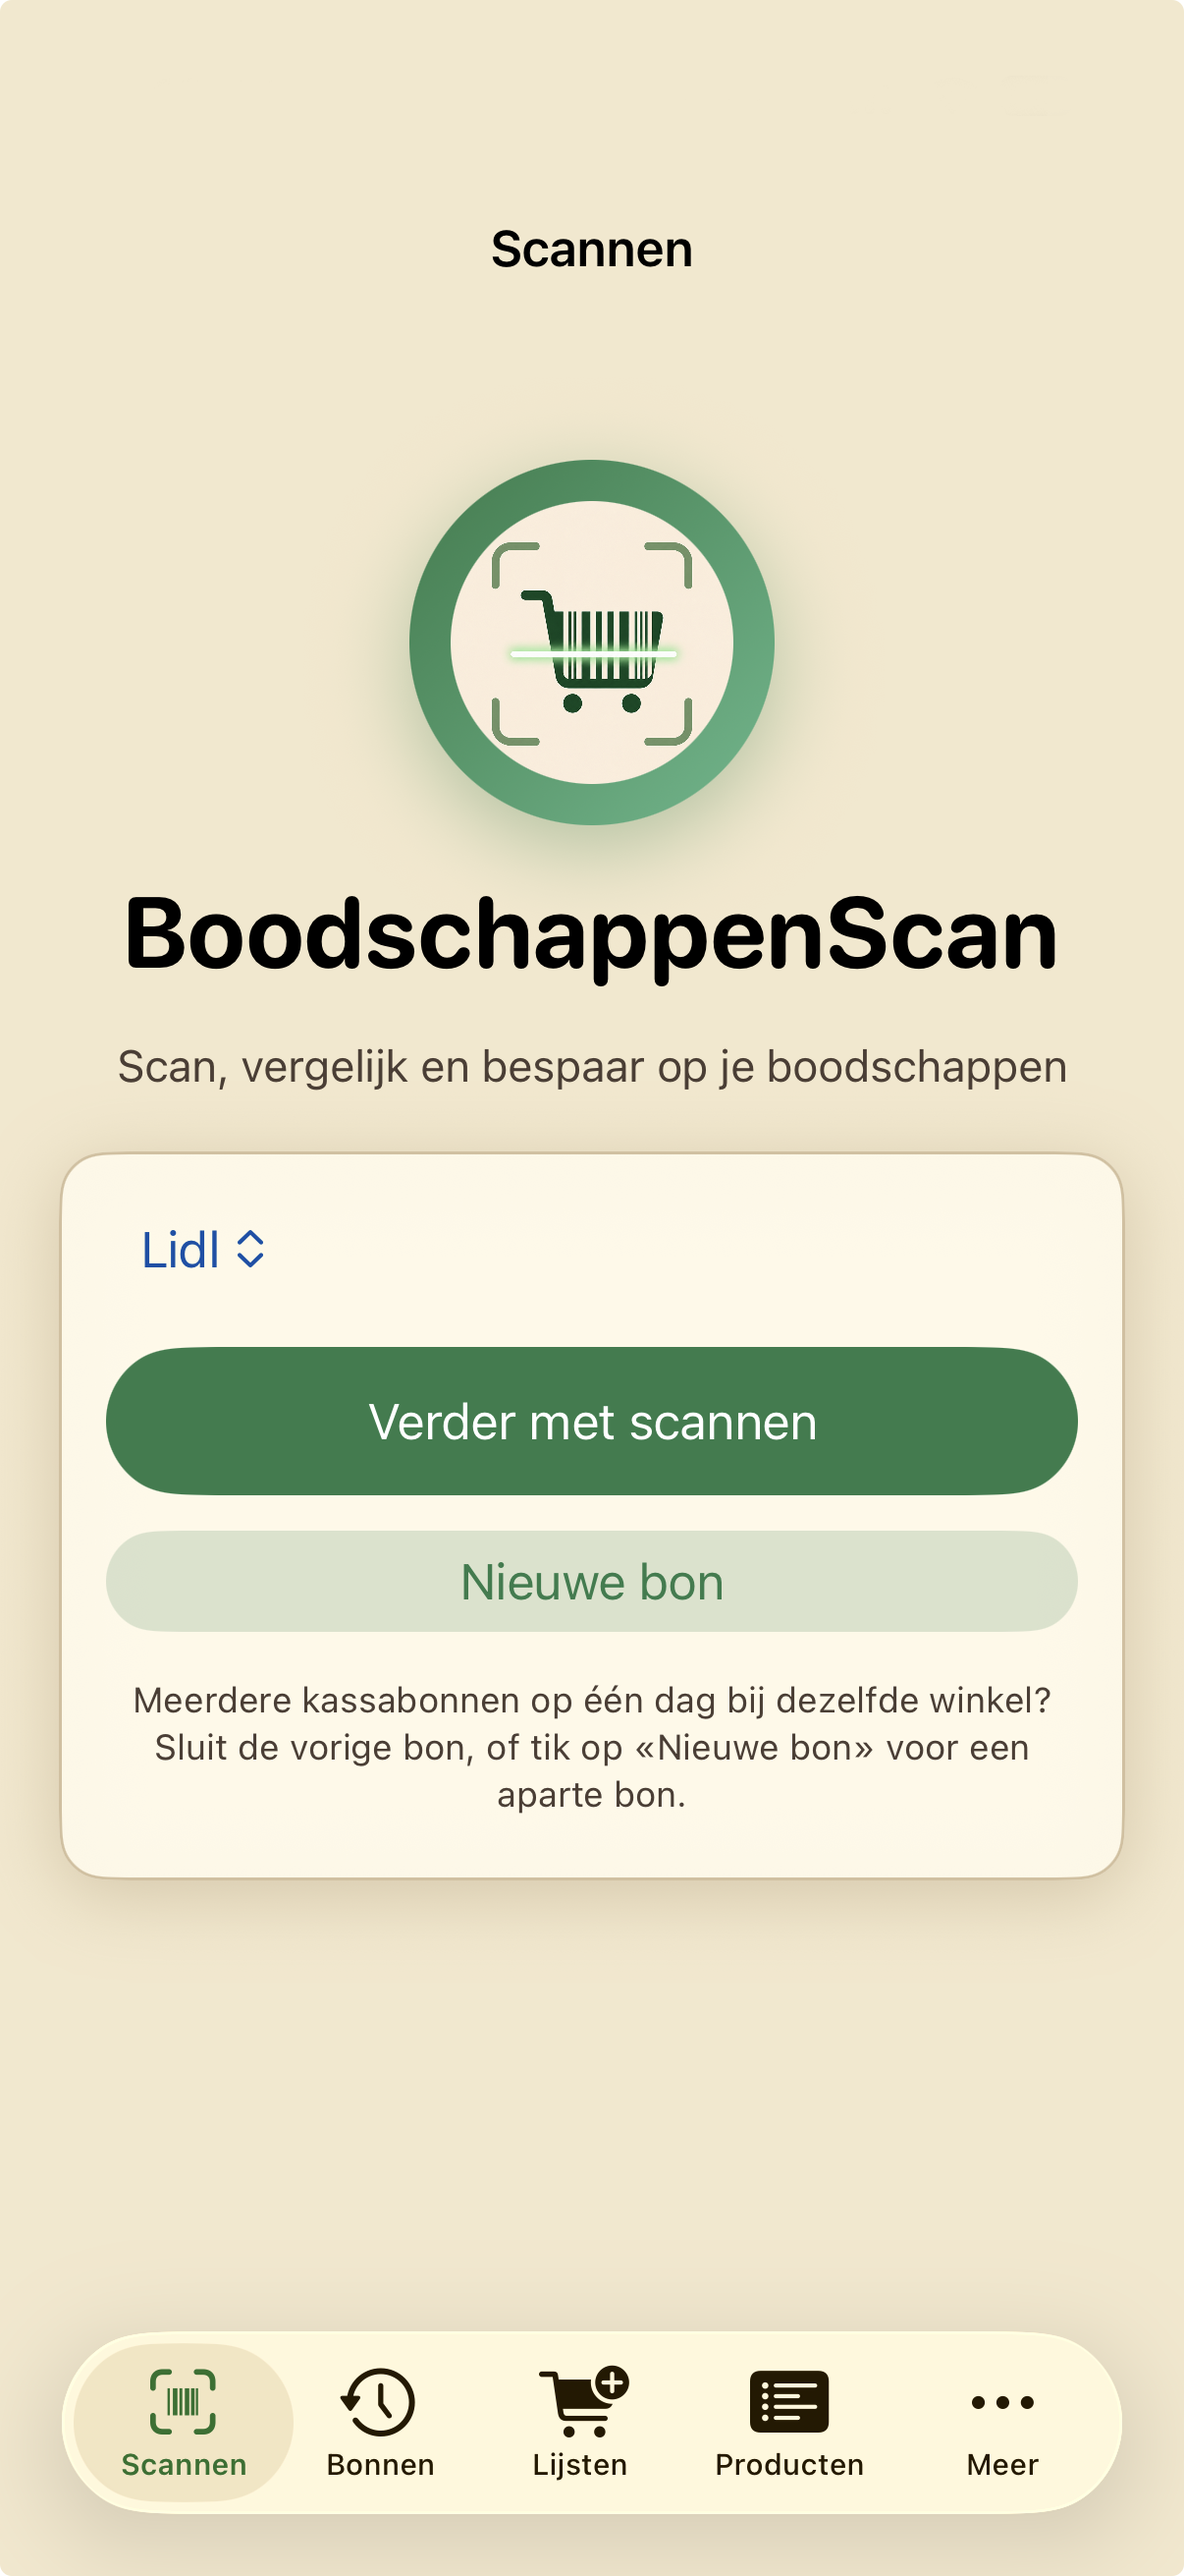
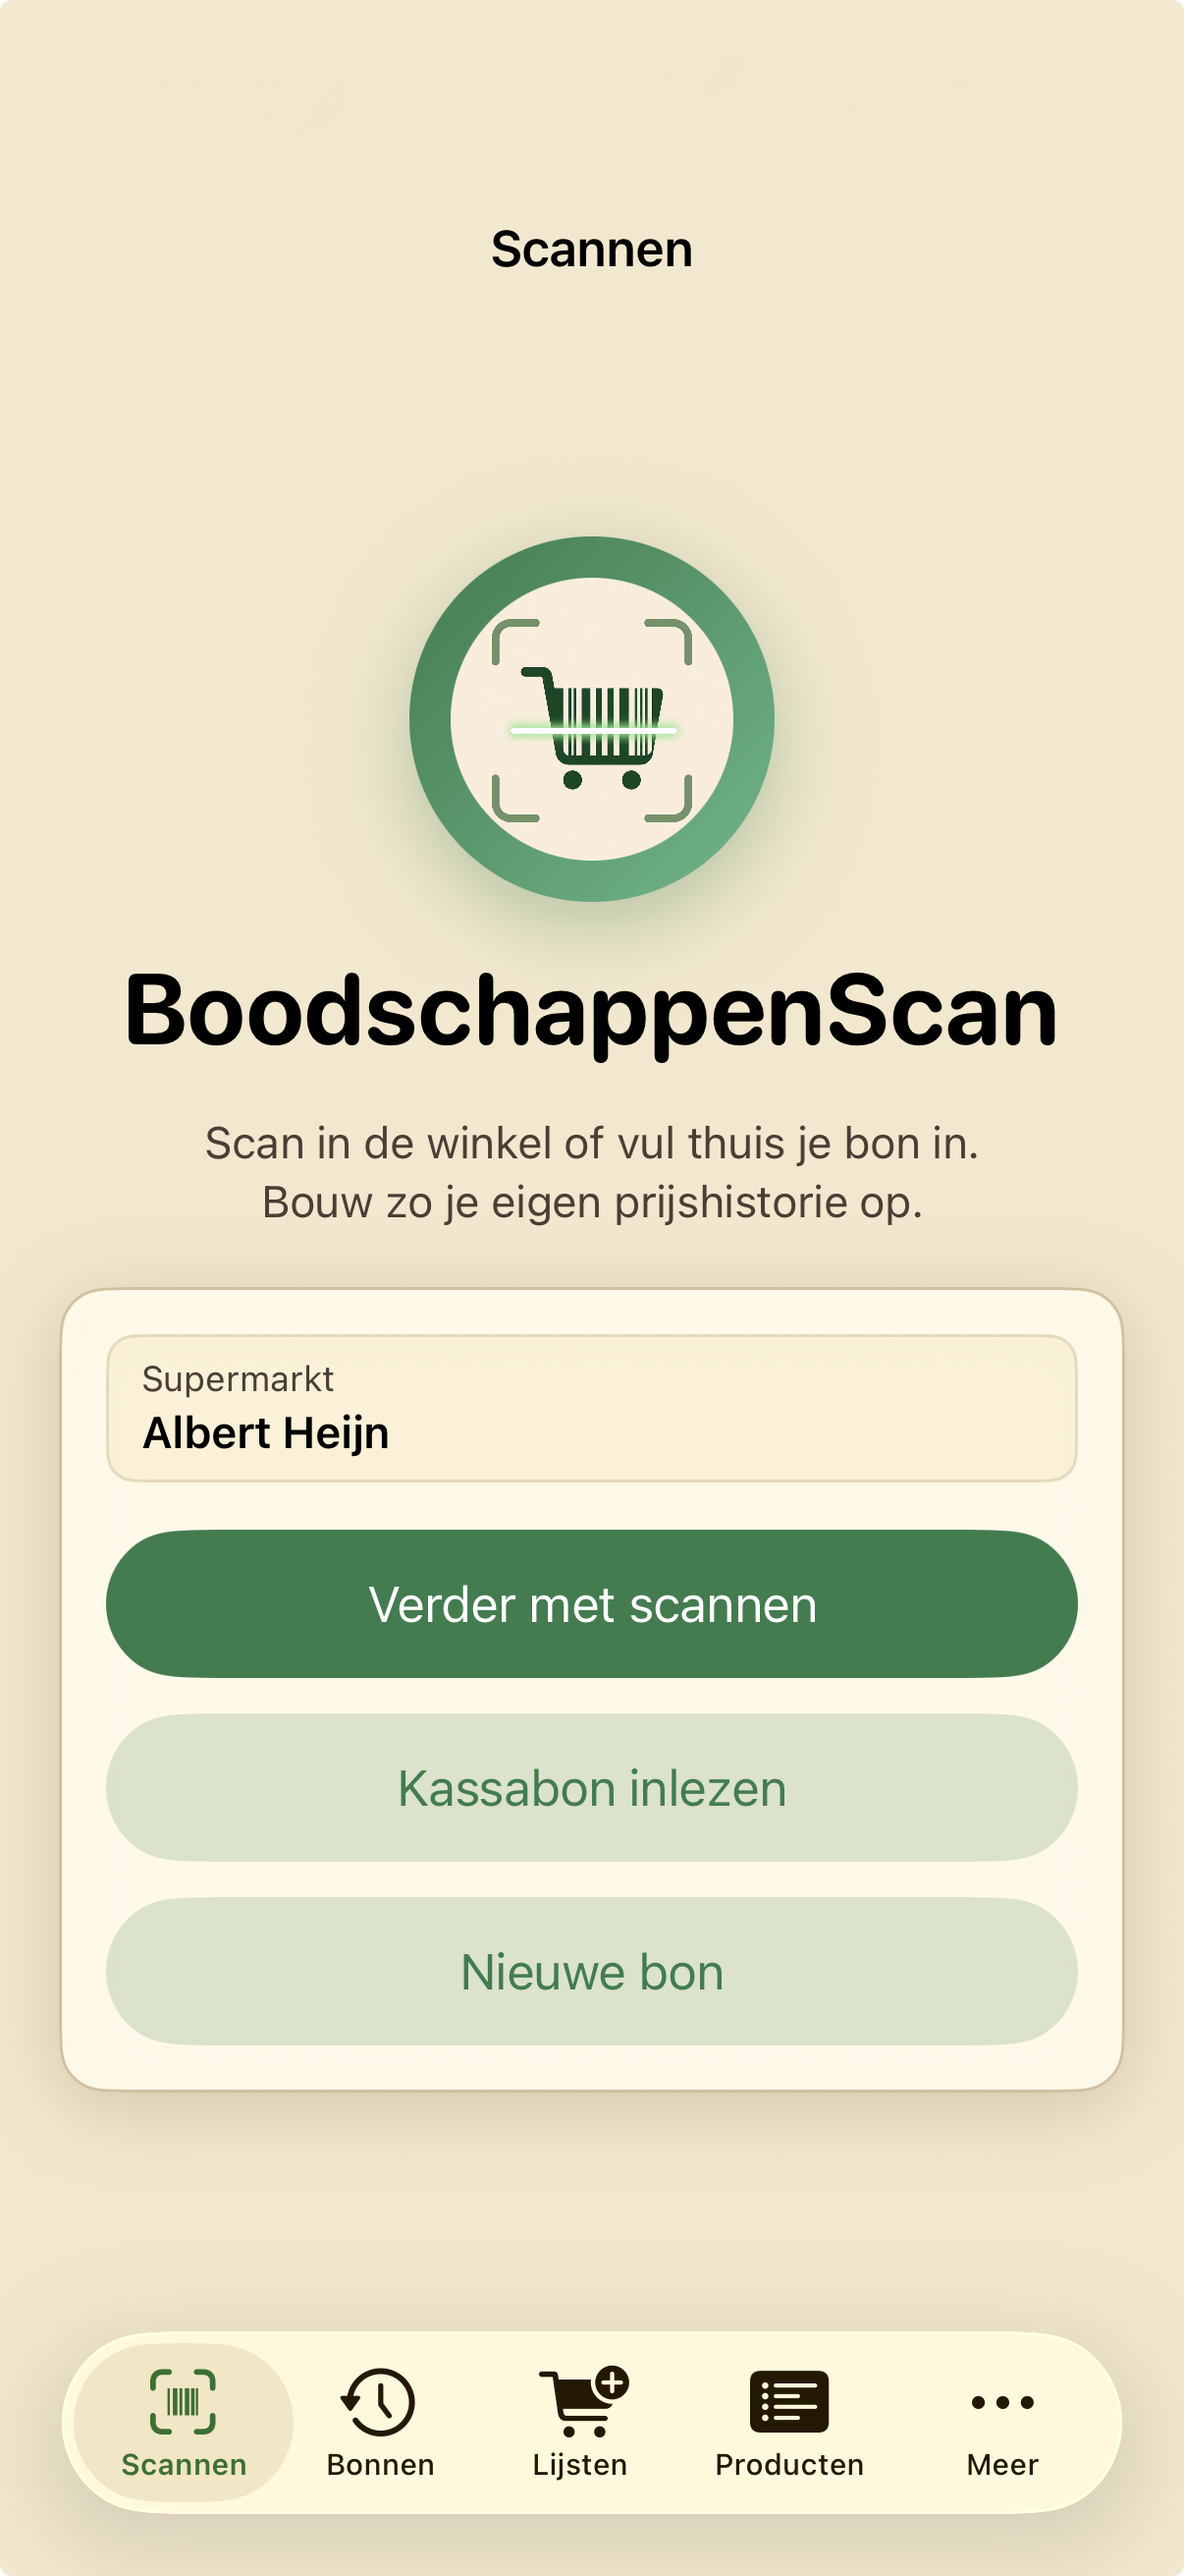
Add files via upload

Changed region(s): [[0.0307, 0.1545, 0.9511, 0.8341]]

diff --git a/home.html b/home.html
@@ -54,7 +54,7 @@
 <div class="container">
 <div class="hero-content">
 <h1 class="hero-heading text-xxl">Vergelijk je eigen boodschappenprijzen<span class="hero-subline">op basis van wat jij zelf hebt betaald</span></h1>
-<p class="hero-text text-md">BoodschappenScan laat zien wat jij écht betaalt voor je boodschappen. Scan producten tijdens het winkelen, voer thuis je bon handmatig in, of lees hem in via foto, Foto's of PDF. Zo ontdek je bij welke supermarkt jij meestal het voordeligst uit bent. Alles blijft lokaal op je iPhone.</p>
+<p class="hero-text text-md">BoodschappenScan laat zien wat jij écht betaalt voor je boodschappen. Scan producten tijdens het winkelen, voer thuis je bon handmatig in, of lees je kassabon achteraf in via foto of PDF. Zo ontdek je bij welke supermarkt jij meestal het voordeligst uit bent. Alles blijft lokaal op je iPhone.</p>
 <div class="app-store-block" id="app-store-live">
 <a class="app-store-badge app-store-badge--live" href="https://apps.apple.com/nl/app/boodschappenscan/id6769793231" rel="noopener noreferrer" target="_blank">
 <span aria-hidden="true" class="app-store-badge-icon"></span>
@@ -73,8 +73,8 @@
 </div>
 </div>
 <div class="hero-visual">
-<div class="device-shot">
-<img alt="Startscherm BoodschappenScan" class="app-screenshot" height="1811" loading="eager" src="assets/screenshots/startscherm.png" width="844"/>
+<div class="phone-frame">
+<img alt="Startscherm BoodschappenScan" class="app-screenshot" height="2622" loading="eager" src="assets/fotohandleiding/startscherm_1.png" width="1206"/>
 </div>
 </div>
 </div>
@@ -111,8 +111,8 @@
 </li>
 </ol>
 <div class="steps-visual">
-<div class="device-shot">
-<img alt="Barcodescanner in BoodschappenScan" class="app-screenshot" height="1811" loading="lazy" src="assets/screenshots/scannen.png" width="844"/>
+<div class="phone-frame">
+<img alt="Barcodescanner in BoodschappenScan" class="app-screenshot" height="2622" loading="lazy" src="assets/fotohandleiding/scannen_5.png" width="1206"/>
 </div>
 </div>
 </div>
@@ -130,8 +130,8 @@
 <div class="features-grid">
 <div class="card">
 <div class="screenshot-wrap">
-<div class="device-shot">
-<img alt="Boodschappenlijst" class="app-screenshot" height="1811" loading="lazy" src="assets/screenshots/lijstje.png" width="844"/>
+<div class="phone-frame">
+<img alt="Boodschappenlijst" class="app-screenshot" height="2622" loading="lazy" src="assets/fotohandleiding/lijstenboodschappenlijst_18.png" width="1206"/>
 </div>
 </div>
 <h4>Boodschappenlijsten</h4>
@@ -139,8 +139,8 @@
 </div>
 <div class="card">
 <div class="screenshot-wrap">
-<div class="device-shot">
-<img alt="Winkelvergelijking" class="app-screenshot" height="1811" loading="lazy" src="assets/screenshots/vergelijken.png" width="844"/>
+<div class="phone-frame">
+<img alt="Winkelvergelijking" class="app-screenshot" height="2622" loading="lazy" src="assets/fotohandleiding/lijstenvergelijken_19.png" width="1206"/>
 </div>
 </div>
 <h4>Winkelvergelijking</h4>
@@ -148,8 +148,8 @@
 </div>
 <div class="card">
 <div class="screenshot-wrap">
-<div class="device-shot">
-<img alt="Bonnenoverzicht" class="app-screenshot" height="1811" loading="lazy" src="assets/screenshots/bonnen.png" width="844"/>
+<div class="phone-frame">
+<img alt="Bonnenoverzicht" class="app-screenshot" height="2622" loading="lazy" src="assets/fotohandleiding/bonnengeschiedenis_13.png" width="1206"/>
 </div>
 </div>
 <h4>Bonnen &amp; geschiedenis</h4>
@@ -157,8 +157,8 @@
 </div>
 <div class="card">
 <div class="screenshot-wrap">
-<div class="device-shot">
-<img alt="Supermarkt selecteren in BoodschappenScan" class="app-screenshot" height="1811" loading="lazy" src="assets/screenshots/supermarktselecteren.png" width="844"/>
+<div class="phone-frame">
+<img alt="Supermarkt selecteren in BoodschappenScan" class="app-screenshot" height="2622" loading="lazy" src="assets/fotohandleiding/selecteersuper_2.png" width="1206"/>
 </div>
 </div>
 <h4>Supermarkt selecteren</h4>
@@ -166,8 +166,8 @@
 </div>
 <div class="card">
 <div class="screenshot-wrap">
-<div class="device-shot">
-<img alt="Supermarkten beheren in BoodschappenScan" class="app-screenshot" height="1811" loading="lazy" src="assets/screenshots/supermarktaanpassen.png" width="844"/>
+<div class="phone-frame">
+<img alt="Supermarkten beheren in BoodschappenScan" class="app-screenshot" height="2622" loading="lazy" src="assets/fotohandleiding/meersupermarkten_25.png" width="1206"/>
 </div>
 </div>
 <h4>Supermarkten beheren</h4>
@@ -175,8 +175,8 @@
 </div>
 <div class="card">
 <div class="screenshot-wrap">
-<div class="device-shot">
-<img alt="Prijsverloop per product" class="app-screenshot" height="1811" loading="lazy" src="assets/screenshots/prijsverloop.png" width="844"/>
+<div class="phone-frame">
+<img alt="Prijsverloop per product" class="app-screenshot" height="2622" loading="lazy" src="assets/fotohandleiding/prijsverloop_prijsclassificatie.png" width="1206"/>
 </div>
 </div>
 <h4>Prijsverloop</h4>
@@ -231,6 +231,7 @@
 <li><i class="fas fa-check"></i> Onbeperkte lijsten, producten &amp; bonnen</li>
 <li><i class="fas fa-check"></i> Prijsgeschiedenis per product</li>
 <li><i class="fas fa-check"></i> Lijstsjablonen &amp; budget per lijst</li>
+<li><i class="fas fa-check"></i> Maandterugblik</li>
 </ul>
 <a class="btn btn-primary btn-block" href="support.html">Meer over Volledig</a>
 </div>

diff --git a/handleiding.html b/handleiding.html
@@ -88,6 +88,7 @@
 <h2>1. Snel beginnen</h2>
 <p>Open de app en kies bovenaan je supermarkt. Tik op <strong>Nieuwe bon starten</strong> om te beginnen met scannen. Heb je vandaag al bij deze winkel gescand? Dan zie je in plaats daarvan <strong>Verder met scannen</strong> — je gaat dan verder waar je gebleven was.</p>
 <p>Liever geen camera tijdens het winkelen? Gebruik <strong>Kassabon inlezen</strong> op het startscherm om je kassabon achteraf via een foto of PDF te laten uitlezen — zie hoofdstuk 3.</p>
+<p>Wil je een bon van een eerdere dag alsnog invoeren? Ga naar tab <strong>Meer</strong> → <strong>Bon invoeren voor eerdere datum</strong>, kies de datum in de kalender en scan of voer je bon daarna in zoals gewoonlijk.</p>
 <p>Je catalogus begint leeg en groeit vanzelf: elk product dat je scant, invoert of via een ingelezen bon toevoegt, komt erin te staan. Vul steeds de betaalde prijs én de inhoud (gram, ml of stuks) in — dat is nodig om later eerlijk te kunnen vergelijken tussen winkels.</p>
 <p>De eerste keer zie je nog weinig terug — dat is normaal. Pas na een paar bonnen, en zeker na scans bij meerdere supermarkten, wordt de vergelijking bruikbaar. Hoe secuurder je in het begin invult, hoe minder je later hoeft te corrigeren.</p>
 <figure class="guide-figure">
@@ -139,6 +140,7 @@
 <p>Klopt een prijs, naam of inhoud toch niet helemaal? Tik gewoon opnieuw op die regel op de bon om hem te bewerken, zolang je nog aan het scannen bent.</p>
 <h3>Bon afronden</h3>
 <p>Klaar met winkelen? Tik op de groene knop <strong>Sluit scanbon</strong>. Je bon staat dan onder tab Bonnen. Tot middernacht kun je er nog iets aan toevoegen of wijzigen.</p>
+<p>Soms verschijnt daarna een vraag of je meteen een back-up wilt maken. Dat kan ook later via Meer.</p>
 </section>
 <!-- 3. KASSABON INLEZEN -->
 <section class="guide-chapter" id="kassabon">
@@ -162,6 +164,8 @@
 <p>Controleer dit voorstel goed voordat je opslaat: klopt de naam, de prijs, de inhoud en de winkel? Je kunt elke regel aanpassen, uitzetten, of koppelen aan een product uit je catalogus. Herkende kortingen kun je koppelen aan het bijbehorende product. Zie je dat iets verkeerd is herkend? Pas het gewoon aan — net zo makkelijk als een gewone typefout corrigeren.</p>
 <p>Let op: de app herkent de datum van je bon niet automatisch — controleer dus of de juiste dag is ingesteld voordat je opslaat.</p>
 <p>Pas als jij alles hebt bevestigd en op <strong>Bon maken</strong> tikt, worden de regels echt toegevoegd — net als bij handmatig scannen.</p>
+<p>Moet je er tussentijds mee stoppen — bijvoorbeeld omdat je wordt afgeleid — vóórdat je op <strong>Bon maken</strong> hebt getikt? Geen probleem: je voortgang wordt automatisch als concept bewaard, zonder dat je daar zelf op een aparte knop voor hoeft te drukken.</p>
+<p>Open je <strong>Kassabon inlezen</strong> daarna opnieuw, dan zie je «Kassabon in bewerking»: kies <strong>Verdergaan</strong> om precies door te gaan waar je was gebleven, met alle producten en aanpassingen die je al had gemaakt, of <strong>Concept verwijderen</strong> om het weg te gooien en gewoon opnieuw te beginnen. De originele foto of PDF wordt hiervoor niet bewaard — alleen de al herkende en door jou aangepaste gegevens. Zo'n concept is nog geen echte bon: pas zodra je op <strong>Bon maken</strong> tikt, wordt alles definitief opgeslagen en verdwijnt het concept vanzelf.</p>
 <p>Corrigeer je een paar keer dezelfde soort fout? De app onthoudt zulke correcties lokaal op je toestel, zodat een volgende kassabon van dezelfde winkel sneller en beter wordt herkend. Deze herkenning verlaat nooit je iPhone.</p>
 <details class="guide-detail">
 <summary>Meer over kassabonherkenning</summary>

diff --git a/index.html b/index.html
@@ -67,6 +67,7 @@
 <p>Of je de eenmalige upgrade «BoodschappenScan Volledig» hebt geactiveerd, wordt alleen lokaal onthouden, onder andere via UserDefaults en Apple’s aankoopstatus op je toestel.</p>
 <p>Gebruik je de widget, dan wordt alleen een compacte samenvatting van je laatste bon (winkel, datum, totaal en aantal producten) lokaal gedeeld via Apple App Group-opslag, zodat de widget kan werken.</p>
 <p>Als je een kassabon via foto of PDF laat inlezen (<strong>Kassabon inlezen</strong>), kan de app plaatselijke correcties en herkenningen onthouden — bijvoorbeeld welke productnaam bij een bepaalde bontekst hoort — zodat een volgende bon bij dezelfde winkel sneller en beter wordt herkend. Deze herkenning blijft volledig op je toestel, wordt niet naar de ontwikkelaar verstuurd, en wordt meegenomen in je back-up.</p>
+<p>Ben je met <strong>Kassabon inlezen</strong> begonnen maar nog niet klaar? Dan bewaart de app je voortgang automatisch, lokaal op je toestel, als tijdelijk concept — zodat je die niet kwijtraakt als je tussentijds stopt. De originele foto of PDF maakt daar geen onderdeel van uit. Zo'n concept is nog geen definitieve bon: het verdwijnt vanzelf zodra je de bon daadwerkelijk opslaat, en je kunt het ook zelf verwijderen. Dit concept wordt niet meegenomen in je reguliere back-up.</p>
 <h2>Doel en grondslag voor verwerking</h2>
 <p>De gegevens worden uitsluitend gebruikt voor de functies van de app: producten en betaalde prijzen bijhouden, bonnen bewaren, boodschappenlijsten beheren en prijzen tussen supermarkten vergelijken. De rechtsgrond is de uitvoering van de dienst die jij zelf hebt gestart (AVG art. 6 lid 1b). Er vindt geen profilering of geautomatiseerde besluitvorming plaats.</p>
 <h2>Internet en Open Food Facts</h2>
@@ -74,6 +75,7 @@
 <p>Open Food Facts is een non-profit databank voor productinformatie, onafhankelijk van de ontwikkelaar van deze app.</p>
 <p>De app gebruikt geen advertentie-SDK’s, analysebibliotheken of trackingdiensten van derden. Er worden geen persoonsgegevens verkocht of gedeeld met derden.</p>
 <p>Voor de eenmalige in-app aankoop (StoreKit) kan de app productinformatie en prijzen ophalen bij Apple wanneer jij het upgradescherm opent of een aankoop doet.</p>
+<p>Ook kan de app af en toe bij Apple navragen of er een nieuwere versie van BoodschappenScan beschikbaar is, om je daar zo nodig op te wijzen. Hiervoor wordt geen persoons- of gebruikersgegeven meegestuurd.</p>
 <p><a href="https://world.openfoodfacts.org/privacy" rel="noopener noreferrer">Privacybeleid Open Food Facts</a></p>
 <h2>Externe verwerkers (alleen indien je functie gebruikt)</h2>
 <p><strong>Apple:</strong> voor permissies, bestandskiezer/deelfuncties, spraakherkenning wanneer jij inspreken gebruikt, en voor in-app aankopen via StoreKit. De ontwikkelaar ontvangt geen betaalgegevens — die verlopen via Apple.</p>

diff --git a/support.html b/support.html
@@ -81,6 +81,7 @@
 <li><strong>Data kwijt na verwijderen?</strong> iOS wist app-gegevens bij deïnstallatie. Maak vooraf een back-up: Meer → Back-up maken → Kopieer naar e-mail of Kopieer naar iCloud / AirDrop / … en bewaar het bestand buiten de app (alleen Op mijn iPhone → Boodschappen is niet genoeg).</li>
 <li><strong>Upgrade werkt niet?</strong> Gebruik «Aankoop herstellen» met hetzelfde Apple ID als bij de aankoop.</li>
 <li><strong>Barcode niet herkend?</strong> Tik in de scanner op <strong>Typen</strong> en vul het product handmatig in, of gebruik <strong>Kassabon inlezen</strong> om je bon via foto of PDF lokaal te laten uitlezen. Je kunt ook inspreken via het microfoon-icoon of een eerder product kiezen via <strong>Catalogus</strong>. De app onthoudt je invoer voor volgende keren.</li>
+<li><strong>Mijn kassabon was nog niet af — ben ik mijn wijzigingen kwijt?</strong> Nee. Zodra je een kassabon inleest en aanpast, bewaart de app je voortgang automatisch als concept. Open <strong>Kassabon inlezen</strong> later opnieuw. Bij «Kassabon in bewerking» kies je <strong>Verdergaan</strong> om verder te gaan waar je gebleven was, of <strong>Concept verwijderen</strong> om opnieuw te beginnen. De originele foto of PDF wordt niet bewaard; alleen de al herkende en aangepaste gegevens.</li>
 <li><strong>Product zonder barcode?</strong> Open het product in tab Producten → tik <strong>Scan barcode</strong>. De code activeert het prijsverloop en komt ook op bijpassende bonregels. Zie de <a href="handleiding.html#barcode-scannen">handleiding</a>.</li>
 <li><strong>iCloud-back-up?</strong> Als iCloud Drive aan staat, kan de app automatisch een back-up op iCloud Drive zetten (tab Meer). Dat is optioneel — er gaat niets naar servers van de ontwikkelaar.</li>
 <li><strong>Waarom zie ik andere PDF’s in het deelvenster?</strong> BoodschappenScan deelt alleen de PDF die je zojuist hebt gemaakt. iOS kan in het deelvenster daarnaast recente documenten of suggesties tonen — die worden niet door BoodschappenScan meegestuurd.</li>

diff --git a/slimbeginnen.html b/slimbeginnen.html
@@ -66,6 +66,15 @@
 <div class="box box-accent">
 <p style="margin:0;">BoodschappenScan werkt niet met algemene supermarktprijzen, maar met wat jij zelf hebt betaald. Zo bouw je vanaf de eerste bon een eigen, betrouwbaar prijsbeeld op — geen folders, geen aannames.</p>
 </div>
+<h2>Zo ziet je startscherm eruit</h2>
+<p>Bovenaan kies je je supermarkt in de supermarktkaart. Tik op <strong>Nieuwe bon starten</strong> om te beginnen met scannen — heb je vandaag al bij deze winkel gescand, dan zie je in plaats daarvan <strong>Verder met scannen</strong>. Liever je kassabon achteraf laten uitlezen? Gebruik de aparte knop <strong>Kassabon inlezen</strong> voor een foto of PDF.</p>
+<p>Moet je Kassabon inlezen halverwege afbreken? Geen zorgen — je voortgang wordt automatisch bewaard en je kunt later gewoon verdergaan.</p>
+<figure class="guide-figure">
+<div class="device-shot guide-shot is-zoomable">
+<img alt="Startscherm met Nieuwe bon starten" class="app-screenshot" height="1024" loading="lazy" src="assets/fotohandleiding/startscherm_1.png" width="470"/>
+</div>
+<figcaption>Startscherm — supermarkt kiezen, scannen of kassabon inlezen.</figcaption>
+</figure>
 <ol style="margin: 18px 0; padding-left: 20px; line-height: 1.6;">
 <li><strong>Je werkt met je eigen betaalde prijzen</strong> — niet met folderprijzen of schattingen van anderen.</li>
 <li><strong>Je catalogus groeit terwijl je de app gebruikt</strong>: elke scan, invoer of ingelezen bon voegt een product toe.</li>
